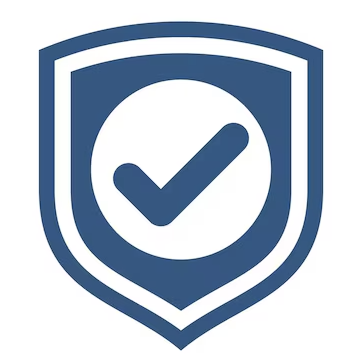
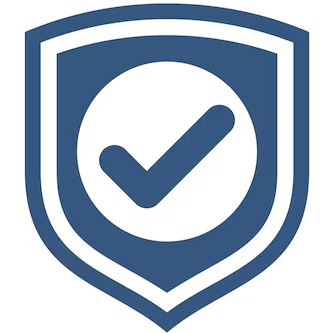
avances en el diseño

diff --git a/HollowServers.html b/HollowServers.html
@@ -9,7 +9,7 @@
     <title>Hollow_servers</title>
 </head>
 
-<body>
+<body class="text-white bg-black">
 
     <!--Navbar -->
     <nav class="flex flex-row z-10 fixed bg-black p-2 w-full text-white font-bold lg:text-xl text-lg">
@@ -42,86 +42,111 @@
         </div>
     </nav>
 
+    <!--menu oculto-->
+    <div id="menu-d" class="hidden md:hidden absolute top-16 right-0 bg-black text-white w-full z-20">
+        <a href="#Inicio" class="block px-4 py-2 hover:bg-gray-700">INICIO</a>
+        <a href="#SobreMi" class="block px-4 py-2 hover:bg-gray-700">SOBRE MI</a>
+        <a href="#Tecnologias" class="block px-4 py-2 hover:bg-gray-700">TECNOLOGÍAS</a>
+    </div>
+
     <!--Seccion de relleno-->
     <div class="h-15"></div>
 
     <!--Inicio-->
-    <section class="flex flex-row bg-slate-800 p-4 items-center text-xl text-white font-bold">
+    <section class="flex flex-col lg:flex-row bg-slate-800 p-4 items-center text-sm lg:text-xl text-white font-bold">
         <div class="flex flex-col p-4 gap-4 lg:ml-10">
-            <h1 class="text-4xl">Necesitas llevar tu idea la mundo</h1>
+            <h1 class="text-2xl lg:text-4xl">Necesitas llevar tu idea al mundo</h1>
             <p>Hazlo ahora con hollow servers, publica desde pequeñas api hasta una aplicación completa, los limites son
                 solo tu creatividad.</p>
         </div>
-        <div class="basis-full"></div>
-        <div class="flex flex-col gap-4 basis-full">
-            <div class="flex flex-row justify-start items-center">
-                <svg version="1.0" class="size-30" xmlns="http://www.w3.org/2000/svg" width="500.000000pt"
-                    height="500.000000pt" viewBox="0 0 500.000000 500.000000" preserveAspectRatio="xMidYMid meet">
-                    <g transform="translate(0.000000,500.000000) scale(0.100000,-0.100000)" fill="#ffffff"
+        <div class="flex flex-col w-full gap-4">
+            <div class="flex flex-row justify-start items-center gap-2">
+                <svg version="1.0" xmlns="http://www.w3.org/2000/svg" width="308.000000pt" height="402.000000pt"
+                    class="size-10 lg:size-20" viewBox="0 0 308.000000 402.000000" preserveAspectRatio="xMidYMid meet">
+                    <g transform="translate(0.000000,402.000000) scale(0.050000,-0.050000)" fill="#ffffff"
                         stroke="none">
                         <path
-                            d="M2249 4484 c-30 -12 -110 -106 -420 -492 -211 -261 -392 -487 -401 -501 -29 -42 -23 -105 11 -143 l29 -33 156 -3 156 -3 0 -287 c0 -168 4 -303 11 -324 10 -38 48 -68 84 -68 36 0 74 30 84 68 14 48 14 654 1 703 -6 19 -22 46 -36 60 -23 22 -36 24 -144 29 l-118 5 80 100 c45 55 185 228 311 385 126 157 233 286 237 288 4 1 50 -50 102 -115 52 -65 193 -239 313 -388 l218 -270 -114 -5 c-175 -8 -189 -23 -189 -205 0 -115 0 -117 29 -146 37 -36 79 -38 118 -5 25 21 28 31 31 100 l4 76 144 0 c183 0 213 13 229 101 8 47 -3 64 -205 315 -96 119 -269 334 -384 476 -115 143 -219 266 -230 273 -35 21 -69 24 -107 9z" />
+                            d="M2575 7985 c-42 -20 -121 -92 -180 -165 -296 -361 -1411 -1751 -1450 -1806 -67 -94 -61 -215 13 -299 l59 -65 311 -6 312 -7 0 -573 c0 -703 20 -784 190 -784 172 0 190 77 189 830 0 884 4 874 -378 890 l-239 10 621 770 c342 424 628 773 636 776 8 3 296 -344 641 -770 l625 -776 -227 -10 c-349 -15 -378 -46 -378 -411 0 -230 1 -233 58 -291 141 -140 302 -34 302 200 l0 142 291 0 c181 0 308 9 334 23 117 62 161 196 102 306 -50 93 -1562 1967 -1615 2001 -72 47 -139 51 -217 15z" />
                         <path
-                            d="M2933 3172 c-12 -2 -125 -96 -250 -209 -382 -344 -379 -341 -353 -404 19 -46 55 -59 165 -59 l95 0 0 -49 c0 -80 57 -127 123 -102 46 18 59 60 55 177 -3 118 -17 142 -83 153 l-36 6 151 138 c134 123 152 136 168 125 10 -7 80 -69 155 -138 l137 -125 -37 -6 c-22 -4 -46 -17 -60 -33 -23 -27 -23 -31 -23 -272 0 -157 4 -253 11 -266 6 -11 26 -26 45 -34 30 -12 39 -12 69 0 21 9 39 26 45 41 6 15 10 107 10 206 l0 179 90 0 c114 0 153 15 170 64 9 28 9 41 -2 63 -17 36 -574 540 -602 545 -11 2 -31 2 -43 0z" />
+                            d="M3944 5364 c-25 -4 -205 -152 -400 -329 -195 -177 -448 -408 -564 -512 -272 -246 -293 -282 -231 -400 41 -81 111 -103 322 -103 l189 0 0 -99 c0 -136 62 -210 178 -210 148 0 172 46 172 329 0 272 -20 315 -160 338 l-73 12 301 276 c209 191 310 271 329 260 14 -9 154 -133 309 -276 l284 -260 -74 -12 c-159 -27 -166 -54 -166 -610 0 -313 8 -505 22 -531 60 -114 273 -105 318 13 11 29 20 214 20 411 l0 359 177 0 c225 0 299 25 335 113 52 122 35 142 -576 697 -561 509 -613 549 -712 534z" />
                         <path
-                            d="M1790 2505 c-177 -32 -186 -35 -214 -66 -28 -32 -29 -34 -22 -119 3 -47 4 -89 1 -92 -3 -3 -36 15 -73 39 -58 39 -72 44 -106 40 -51 -7 -72 -29 -205 -217 -98 -137 -111 -160 -111 -197 0 -48 27 -86 97 -134 26 -18 41 -35 36 -40 -5 -5 -36 -14 -68 -20 -80 -15 -109 -31 -129 -73 -16 -34 -15 -43 19 -247 48 -283 52 -288 206 -275 43 4 79 4 79 -1 0 -4 -18 -34 -40 -67 -44 -65 -53 -123 -24 -164 8 -12 92 -77 185 -143 145 -104 176 -122 208 -122 52 0 74 15 122 79 22 30 46 53 52 51 6 -2 17 -33 23 -69 16 -85 25 -102 69 -122 34 -17 43 -16 251 18 228 37 241 41 271 99 12 24 12 41 3 103 -6 42 -9 78 -6 81 3 3 34 -13 69 -36 35 -22 73 -41 85 -41 32 0 71 21 77 42 8 24 19 23 34 -4 17 -30 211 -198 256 -222 57 -30 99 -16 168 56 34 35 63 58 71 55 8 -3 24 -35 36 -71 14 -43 32 -74 51 -90 51 -43 80 -42 229 10 168 58 186 67 210 107 25 41 25 83 -1 152 -29 77 -20 87 64 69 75 -16 122 -6 160 34 22 23 32 52 57 177 35 175 36 190 10 232 -23 38 -58 58 -120 68 -82 13 -99 35 -58 71 11 10 34 39 50 63 35 55 37 104 6 148 -36 50 -243 220 -277 228 -50 11 -96 -12 -149 -71 -34 -38 -54 -53 -65 -48 -9 3 -25 34 -37 68 -11 36 -33 75 -49 90 -47 45 -79 43 -241 -13 -80 -28 -146 -51 -146 -51 -1 0 -5 15 -8 34 -12 62 -52 81 -143 65 -36 -6 -68 -8 -73 -3 -5 5 9 35 31 68 49 72 55 97 37 143 -11 31 -41 57 -173 151 -88 63 -172 120 -187 128 -59 31 -113 7 -168 -74 -19 -29 -40 -52 -47 -52 -7 0 -15 17 -18 38 -13 75 -26 112 -49 138 -33 40 -96 39 -316 -1z m195 -215 c19 -96 35 -112 134 -136 98 -23 128 -19 170 24 20 20 43 48 52 61 l15 24 97 -72 97 -71 -35 -51 c-49 -72 -48 -111 8 -200 60 -97 86 -108 210 -86 51 10 95 17 98 17 3 0 4 -13 1 -29 -2 -16 6 -59 18 -96 29 -88 23 -96 -66 -79 -95 17 -160 -7 -183 -69 -20 -55 -64 -315 -57 -341 12 -48 56 -82 122 -96 67 -14 94 -26 94 -42 0 -6 -18 -31 -41 -55 -22 -24 -45 -57 -50 -72 l-10 -27 -38 35 c-20 20 -63 53 -93 74 -78 53 -116 52 -208 -3 -92 -54 -107 -83 -93 -172 6 -35 10 -64 9 -65 -1 -1 -54 -11 -118 -21 l-117 -18 -5 20 c-3 12 -6 30 -6 40 0 30 -39 103 -58 111 -9 4 -52 16 -95 26 -96 23 -127 14 -180 -55 -20 -26 -39 -47 -42 -48 -4 0 -49 30 -100 67 l-93 67 36 51 c50 70 50 111 -3 195 -59 97 -74 105 -166 98 l-76 -6 -16 99 c-24 145 -26 138 39 146 81 10 110 39 135 140 27 106 18 139 -51 190 -28 20 -50 40 -50 44 0 4 30 49 66 100 41 58 70 89 77 84 7 -3 31 -19 54 -35 61 -41 100 -38 188 17 88 54 101 78 91 170 -4 36 -5 65 -4 66 48 10 207 37 217 36 9 -1 19 -23 26 -57z m1208 -574 c23 -71 57 -99 145 -119 93 -21 133 -10 189 51 l42 45 55 -47 c31 -26 56 -52 56 -56 0 -5 -13 -24 -29 -42 -59 -69 -63 -97 -26 -203 32 -92 50 -106 168 -130 22 -4 26 -10 23 -28 -3 -12 -10 -47 -16 -78 l-11 -57 -37 9 c-20 5 -57 9 -82 9 -42 0 -48 -4 -107 -65 -74 -78 -84 -111 -59 -193 10 -30 14 -58 9 -62 -11 -9 -134 -53 -137 -48 -2 1 -11 26 -20 55 -18 54 -60 99 -99 107 -12 3 -45 10 -74 16 -71 16 -112 1 -162 -57 l-39 -46 -56 48 c-31 26 -56 51 -56 56 0 5 13 23 29 41 38 44 51 71 51 105 0 27 -31 128 -51 165 -13 24 -57 46 -119 59 -45 10 -51 14 -47 33 3 11 10 46 17 77 l11 55 53 -9 c86 -16 117 -5 180 63 67 73 76 108 52 188 -10 30 -14 58 -9 62 9 9 113 49 129 49 6 1 18 -23 27 -53z" />
+                            d="M1660 4030 c-476 -87 -493 -100 -472 -369 16 -215 16 -215 -131 -114 -243 167 -288 142 -636 -347 -287 -405 -293 -477 -48 -648 127 -88 122 -103 -44 -134 -299 -55 -311 -91 -219 -640 95 -565 103 -576 411 -549 184 16 184 17 79 -137 -162 -238 -135 -288 322 -615 439 -313 489 -319 666 -76 98 136 118 132 141 -31 44 -300 86 -314 645 -222 549 90 590 121 544 413 -27 180 -25 181 128 82 167 -109 279 -105 333 13 l24 52 24 -49 c31 -64 443 -430 529 -471 113 -53 196 -24 330 115 137 144 156 142 213 -31 88 -264 185 -291 561 -161 470 163 526 232 418 519 -57 154 -39 174 127 138 279 -59 352 12 435 421 94 466 61 555 -220 601 -162 26 -198 69 -120 140 247 223 217 361 -143 668 -321 274 -399 284 -584 80 -130 -144 -156 -140 -213 31 -89 268 -181 292 -580 152 -160 -55 -291 -101 -293 -101 -1 0 -8 30 -15 67 -24 125 -102 162 -285 133 -172 -28 -180 -17 -88 119 166 244 146 296 -215 558 -546 394 -590 403 -764 146 -83 -122 -114 -129 -131 -28 -63 368 -115 388 -729 275z m389 -430 c40 -192 72 -225 270 -272 231 -55 321 -21 442 170 l31 47 189 -136 c104 -75 192 -139 196 -141 3 -2 -26 -51 -65 -108 -100 -145 -98 -223 13 -402 132 -214 169 -223 577 -144 48 9 51 5 42 -53 -5 -36 10 -119 35 -193 59 -174 46 -190 -131 -157 -296 56 -347 0 -438 -472 -78 -400 -45 -488 201 -539 217 -45 227 -64 108 -194 -45 -48 -91 -113 -101 -143 l-19 -56 -76 72 c-260 244 -383 273 -604 142 -182 -108 -212 -164 -185 -347 l19 -132 -142 -22 c-77 -13 -184 -30 -236 -39 l-94 -15 -12 72 c-37 232 -75 270 -317 324 -197 44 -254 26 -358 -111 -89 -116 -65 -120 -284 39 l-187 134 74 102 c100 140 99 221 -6 391 -120 192 -150 210 -333 195 l-152 -12 -33 199 c-48 289 -52 274 79 290 299 38 413 487 167 664 -54 39 -99 78 -99 86 0 40 265 381 286 368 13 -8 62 -39 108 -70 124 -85 207 -78 380 33 172 110 196 157 177 340 -8 71 -11 131 -8 131 491 93 458 96 486 -41z m2418 -1149 c86 -272 469 -350 667 -135 l84 91 111 -95 c129 -110 129 -110 54 -196 -120 -138 -127 -195 -53 -406 64 -184 100 -211 335 -260 45 -9 54 -20 46 -55 -5 -25 -19 -96 -31 -158 l-22 -112 -74 17 c-315 73 -588 -201 -495 -497 19 -60 27 -116 18 -125 -18 -16 -271 -103 -278 -95 -2 3 -19 52 -38 109 -35 109 -118 199 -198 215 -23 5 -90 19 -147 32 -142 31 -224 2 -324 -116 l-78 -91 -112 95 c-127 109 -132 125 -60 193 116 108 132 201 66 388 -71 204 -99 229 -299 272 -90 19 -101 27 -92 65 5 24 20 93 32 154 l22 112 107 -19 c299 -55 552 219 463 501 -40 126 -43 121 105 178 155 60 152 61 191 -62z" />
                         <path
-                            d="M1924 2030 c-117 -16 -209 -62 -289 -144 -98 -100 -145 -212 -145 -343 0 -281 217 -503 491 -503 222 0 415 140 479 349 24 75 26 201 6 276 -63 239 -300 398 -542 365z m198 -208 c62 -31 119 -87 149 -148 20 -41 24 -64 24 -139 0 -105 -19 -155 -86 -222 -66 -67 -118 -88 -224 -88 -78 0 -97 4 -141 27 -130 69 -199 222 -164 367 21 89 105 181 197 216 59 22 187 15 245 -13z" />
+                            d="M1928 3080 c-754 -107 -1112 -932 -680 -1567 452 -663 1513 -493 1752 281 213 690 -367 1385 -1072 1286z m358 -400 c225 -84 377 -301 391 -553 37 -719 -964 -928 -1216 -254 -191 511 309 1000 825 807z" />
                         <path
-                            d="M3205 1501 c-148 -39 -234 -195 -191 -345 32 -109 147 -196 261 -196 142 0 275 133 275 275 0 93 -69 204 -153 247 -45 22 -142 32 -192 19z m114 -186 c78 -40 54 -153 -37 -171 -27 -6 -37 -1 -67 29 -49 49 -42 111 16 143 31 17 54 17 88 -1z" />
+                            d="M4490 2022 c-406 -106 -540 -608 -244 -912 398 -408 1068 -7 904 542 -79 267 -390 442 -660 370z m227 -371 c107 -55 130 -175 52 -268 -65 -78 -149 -97 -227 -51 -211 125 -43 432 175 319z" />
                     </g>
                 </svg>
-                <p>texto de prueba</p>
+                <p>Componentes segun tus necesidades</p>
             </div>
-            <div class="flex flex-row justify-start items-center">
-                <svg version="1.0" class="size-30" xmlns="http://www.w3.org/2000/svg" width="363.000000pt"
-                    height="363.000000pt" viewBox="0 0 363.000000 363.000000" preserveAspectRatio="xMidYMid meet">
-                    <g transform="translate(0.000000,363.000000) scale(0.050000,-0.050000)" fill="#ffffff"
+            <div class="flex flex-row justify-start items-center gap-2">
+                <?xml version="1.0" standalone="no"?>
+                <!DOCTYPE svg
+                    PUBLIC "-//W3C//DTD SVG 20010904//EN" "http://www.w3.org/TR/2001/REC-SVG-20010904/DTD/svg10.dtd">
+                <svg version="1.0" xmlns="http://www.w3.org/2000/svg" width="333.000000pt" height="333.000000pt"
+                    class="size-10 lg:size-20" viewBox="0 0 333.000000 333.000000" preserveAspectRatio="xMidYMid meet">
+                    <g transform="translate(0.000000,333.000000) scale(0.100000,-0.100000)" fill="#ffffff"
                         stroke="none">
                         <path
-                            d="M3070 6807 c-749 -62 -1427 -215 -2085 -471 l-205 -79 0 -1456 c0 -1745 13 -1931 169 -2346 209 -559 590 -928 1481 -1434 558 -317 782 -456 993 -615 l195 -147 186 137 c247 182 422 292 936 584 1150 655 1488 1036 1663 1873 45 213 46 245 52 1810 l7 1593 -206 80 c-967 376 -2175 554 -3186 471z m1417 -336 c605 -85 1368 -276 1619 -405 l57 -28 -9 -1464 c-9 -1567 -10 -1590 -115 -1909 -192 -583 -517 -899 -1486 -1444 -457 -258 -614 -351 -789 -473 -153 -107 -135 -107 -288 0 -177 123 -348 225 -796 477 -1070 603 -1380 943 -1544 1695 -40 180 -42 264 -50 1654 l-9 1463 57 29 c91 47 547 190 811 255 364 89 646 133 1185 187 187 19 1150 -7 1357 -37z" />
+                            d="M1385 3283 c-319 -22 -720 -113 -1032 -235 l-103 -40 0 -721 c0 -875 7 -973 84 -1179 54 -144 117 -239 241 -363 131 -132 230 -201 555 -387 270 -155 354 -207 463 -290 l77 -59 78 59 c110 83 235 162 481 301 273 155 402 244 517 353 138 132 217 255 274 426 64 192 63 188 67 1064 l4 796 -103 40 c-313 122 -649 199 -1003 232 -101 9 -482 11 -600 3z m710 -167 c164 -22 276 -42 412 -76 132 -32 360 -103 406 -127 l28 -14 -4 -732 c-3 -611 -7 -745 -20 -809 -34 -170 -90 -297 -186 -425 -107 -143 -251 -249 -594 -443 -229 -128 -307 -175 -395 -236 -35 -24 -67 -44 -72 -44 -5 0 -37 20 -72 44 -87 60 -165 107 -395 237 -338 191 -471 288 -584 429 -118 147 -187 333 -208 561 -7 67 -11 382 -11 766 l0 652 28 15 c39 20 261 90 377 120 138 35 349 72 480 85 61 6 124 13 140 15 69 10 566 -4 670 -18z" />
                         <path
-                            d="M3280 6178 c-539 -24 -1097 -121 -1630 -282 l-220 -66 0 -1370 c0 -1526 0 -1522 147 -1847 193 -425 444 -641 1303 -1122 193 -108 434 -249 537 -313 218 -137 202 -134 310 -60 46 31 331 199 633 372 1003 573 1255 826 1403 1413 l47 187 0 1369 0 1369 -150 48 c-763 240 -1551 340 -2380 302z m555 -519 c1207 -151 1932 -1438 1425 -2531 -646 -1396 -2590 -1418 -3260 -38 -617 1274 433 2745 1835 2569z" />
+                            d="M1490 2969 c-287 -14 -633 -78 -875 -163 l-40 -14 0 -689 1 -688 26 -96 c44 -161 111 -273 231 -385 95 -89 194 -155 443 -295 110 -62 241 -138 293 -170 51 -33 97 -59 102 -59 4 0 39 20 76 44 37 24 169 101 293 171 311 177 380 224 491 334 79 80 103 111 141 187 25 50 56 134 69 185 l24 94 0 685 0 684 -90 28 c-377 118 -779 167 -1185 147z m288 -259 c399 -50 719 -359 783 -754 15 -94 7 -277 -16 -366 -68 -259 -263 -489 -511 -600 -220 -99 -487 -101 -715 -5 -205 86 -372 249 -468 457 -63 136 -76 200 -75 378 0 139 3 164 27 243 65 213 192 384 372 502 188 124 387 172 603 145z" />
                         <path
-                            d="M4560 4778 c-27 -11 -340 -309 -695 -663 l-644 -644 -246 242 c-315 312 -451 354 -616 189 -186 -186 -139 -294 336 -766 568 -565 450 -597 1442 391 823 818 859 862 833 1015 -32 186 -236 304 -410 236z" />
+                            d="M2140 2269 c-14 -5 -170 -155 -347 -332 l-323 -321 -122 120 c-138 136 -168 153 -239 134 -53 -15 -94 -54 -110 -108 -22 -75 -2 -105 209 -314 158 -157 193 -187 225 -193 90 -17 81 -25 496 388 411 409 429 431 416 508 -16 93 -118 152 -205 118z" />
                     </g>
                 </svg>
-                <p>texto de prueba</p>
+                <p>Infraestructura robusta, tu sistema siempre en linea</p>
             </div>
-            <div class="flex flex-row justify-start items-center">
-                <svg version="1.0" class="size-30" xmlns="http://www.w3.org/2000/svg" width="225.000000pt"
-                    height="225.000000pt" viewBox="0 0 225.000000 225.000000" preserveAspectRatio="xMidYMid meet">
-                    <g transform="translate(0.000000,225.000000) scale(0.066667,-0.066667)" fill="#ffffff"
+            <div class="flex flex-row justify-start items-center gap-2">
+                <svg version="1.0" xmlns="http://www.w3.org/2000/svg" width="225.000000pt" height="178.000000pt"
+                    class="size-10 lg:size-20" viewBox="0 0 225.000000 178.000000" preserveAspectRatio="xMidYMid meet">
+                    <g transform="translate(0.000000,178.000000) scale(0.066667,-0.066667)" fill="#ffffff"
                         stroke="none">
                         <path
-                            d="M1493 2923 c-1039 -133 -1641 -1305 -1163 -2263 120 -240 25 -224 1365 -224 1354 0 1227 -26 1373 277 224 463 193 1012 -84 1481 -74 124 -60 128 -189 -43 l-107 -142 51 -86 c165 -273 177 -712 29 -1033 l-51 -110 -1002 -1 c-551 -1 -1015 -4 -1030 -7 -79 -14 -181 331 -182 616 -3 923 975 1507 1757 1049 l66 -39 150 107 c176 127 166 104 69 169 -301 200 -699 294 -1052 249z" />
+                            d="M1537 2609 c-713 -70 -1302 -673 -1372 -1404 -40 -430 126 -952 336 -1049 l77 -36 1102 0 c1345 0 1241 -19 1378 259 240 488 189 1180 -117 1571 l-30 38 -24 -35 c-14 -19 -65 -85 -113 -146 l-89 -111 53 -87 c172 -284 177 -742 12 -1073 l-35 -71 -1030 -4 -1030 -3 -49 105 c-272 588 -21 1306 557 1594 341 170 770 156 1096 -35 l66 -38 150 107 c177 126 167 103 70 168 -288 191 -663 284 -1008 250z" />
                         <path
-                            d="M2655 2401 c-54 -39 -337 -231 -630 -428 -651 -436 -644 -430 -665 -572 -56 -361 368 -492 578 -178 210 313 820 1244 818 1246 -2 1 -47 -30 -101 -68z" />
+                            d="M2618 2060 c-66 -46 -347 -236 -623 -422 -619 -416 -614 -411 -636 -554 -31 -205 89 -349 291 -349 140 0 200 41 317 218 54 82 254 384 444 671 189 286 341 521 336 520 -5 0 -63 -38 -129 -84z" />
                     </g>
                 </svg>
-                <p>texto de prueba</p>
+                <p>Sin retrasos de carga</p>
             </div>
         </div>
     </section>
 
     <!--Seccion tarjetas-->
-    <section class="flex flex-col bg-indigo-900/50 p-4 gap-4 items-center text-lg text-white font-bold">
-        <div class="flex flex-row w-full gap-4 justify-center">
-            <div class="flex flex-col bg-black/50 p-2 h-40 lg:h-80 w-30 lg:w-60 rounded-lg overflow-y-auto">
-            </div>
-            <div class="flex flex-col bg-black/50 p-2 h-40 lg:h-80 w-30 lg:w-60 rounded-lg overflow-y-auto">
+    <div class="flex flex-col items-center p-2 bg-slate-700">
+        <div class="w-full overflow-x-auto">
+            <!--Con el overflow x se hace que se pueda scrollear cuando no hay espacio-->
+            <div class="flex flex-row justify-center gap-4 min-w-max p-2">
 
-            </div>
-            <div class="flex flex-col bg-black/50 p-2 h-40 lg:h-80 w-30 lg:w-60 rounded-lg overflow-y-auto">
+                <div
+                    class="shrink-0 flex flex-col bg-white/20 p-2 h-40 lg:h-80 w-32 lg:w-60 rounded-lg overflow-y-auto">
+                </div>
 
+                <div
+                    class="shrink-0 flex flex-col bg-white/20 p-2 h-40 lg:h-80 w-32 lg:w-60 rounded-lg overflow-y-auto">
+                </div>
+
+                <div
+                    class="shrink-0 flex flex-col bg-white/20 p-2 h-40 lg:h-80 w-32 lg:w-60 rounded-lg overflow-y-auto">
+                </div>
             </div>
         </div>
-    </section>
+    </div>
 
 
     <!--Contacto-->
-    <section class="flex flex-col bg-black p-4 justify-center">
+    <section class="flex flex-col h-fit bg-black p-4 place-items-center text-xs lg:text-xl">
+        <p> 2026 Hollow servers. Todos los derechos reservados</p>
     </section>
 </body>
+
+<script>
+    const menu_d = document.getElementById("menu-d");
+
+    function toggleMenu(){
+        menu_d.classList.toggle("hidden");
+    }
+</script>
 
 </html>